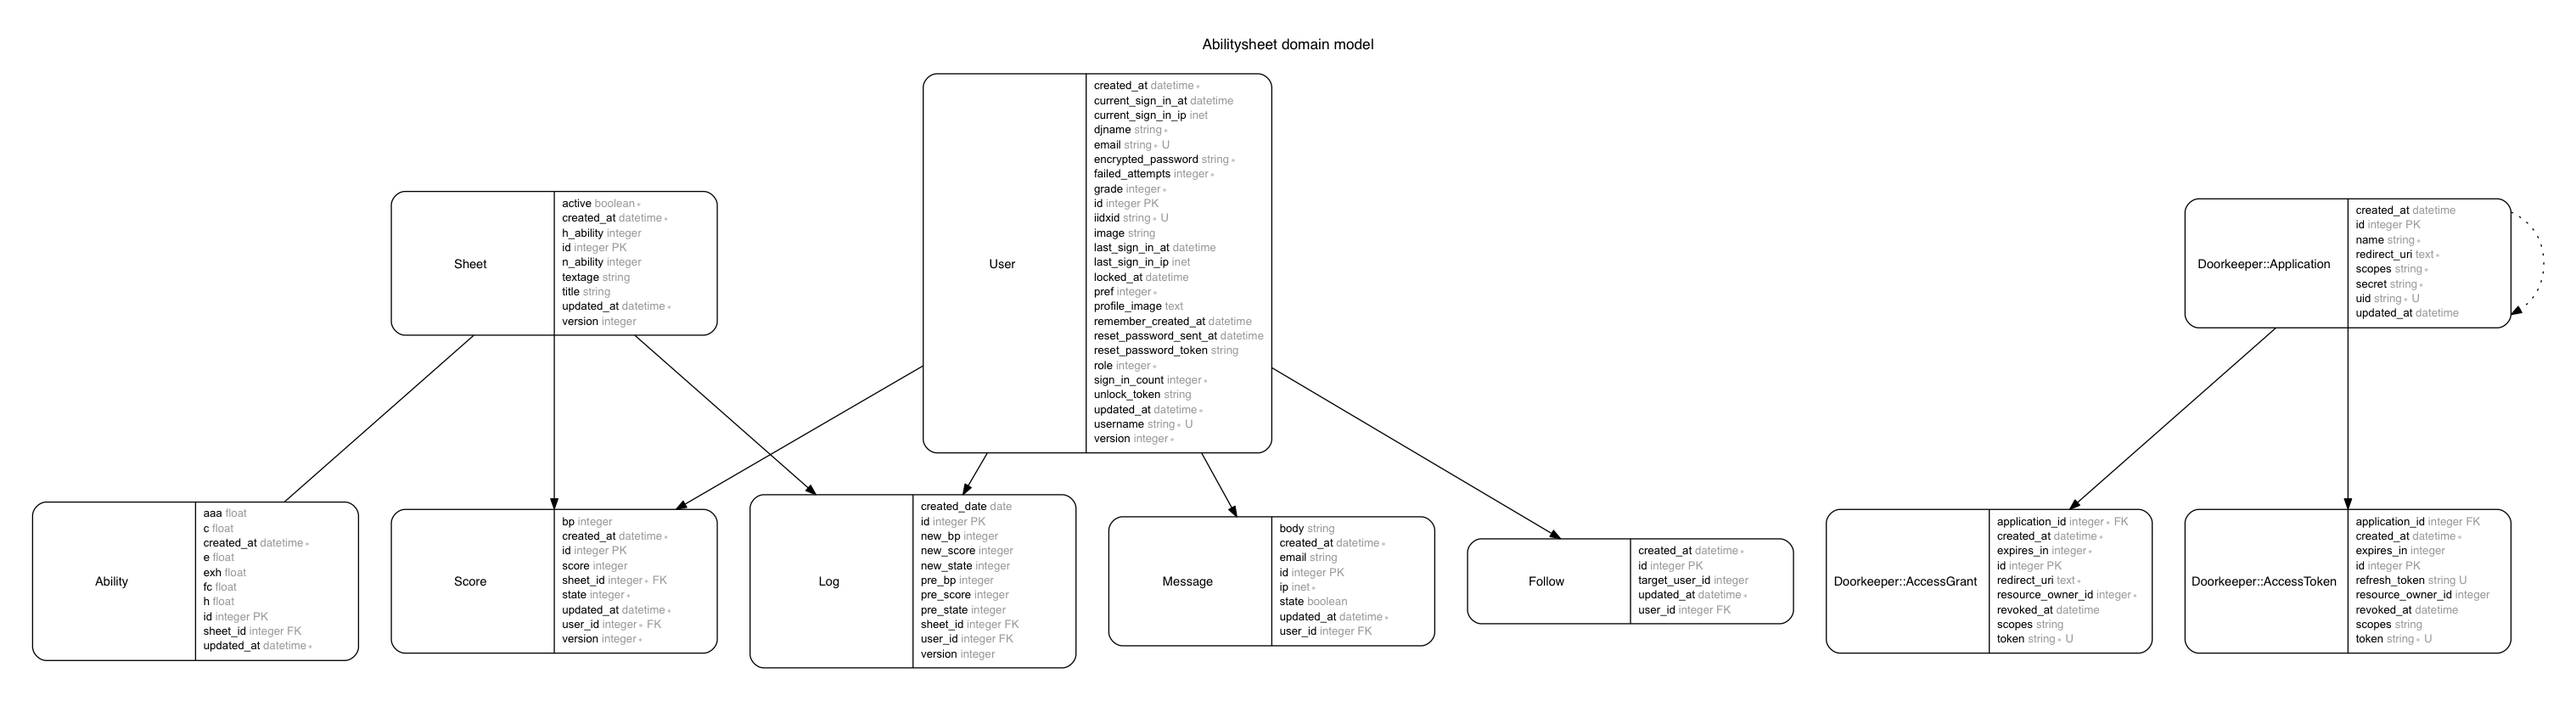
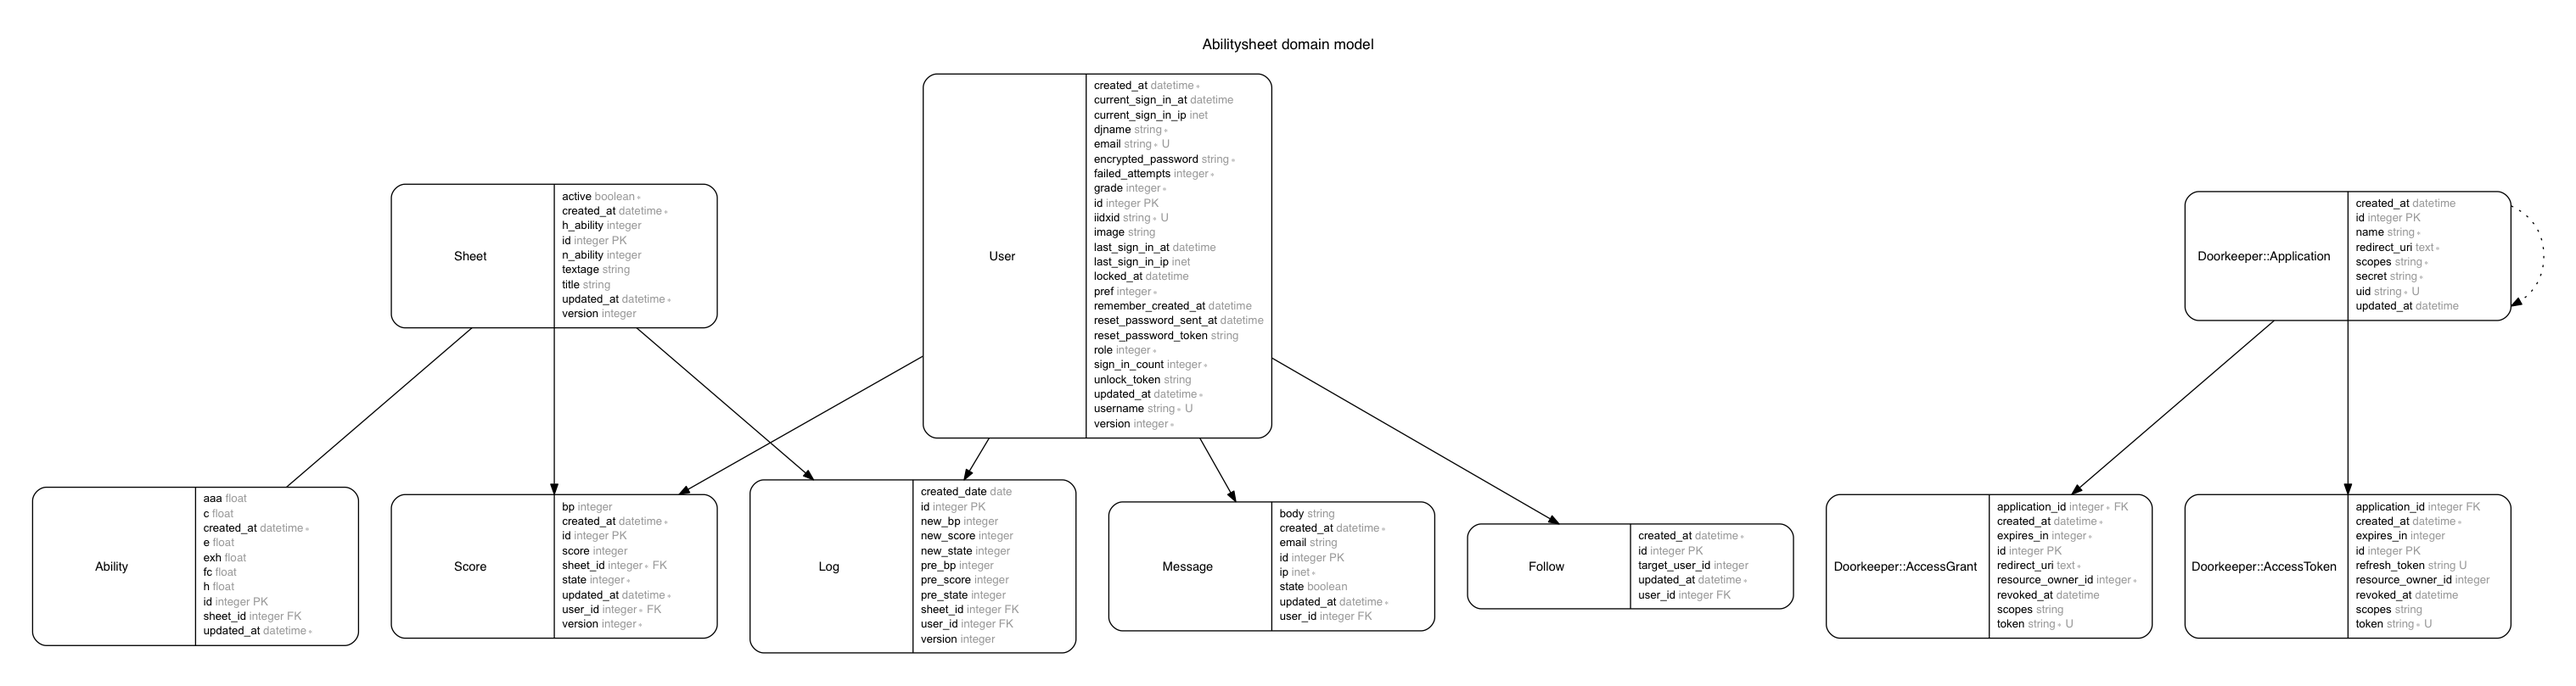
refs #712 db:migrate:reset

diff --git a/db/schema.rb b/db/schema.rb
@@ -1,4 +1,3 @@
-# encoding: UTF-8
 # This file is auto-generated from the current state of the database. Instead
 # of editing this file, please use the migrations feature of Active Record to
 # incrementally modify your database, and then regenerate this schema definition.
@@ -26,18 +25,16 @@ ActiveRecord::Schema.define(version: 20160814172615) do
     t.float    "aaa"
     t.datetime "created_at", null: false
     t.datetime "updated_at", null: false
+    t.index ["sheet_id"], name: "index_abilities_on_sheet_id", using: :btree
   end
-
-  add_index "abilities", ["sheet_id"], name: "index_abilities_on_sheet_id", using: :btree
 
   create_table "follows", force: :cascade do |t|
     t.integer  "user_id"
     t.integer  "target_user_id"
     t.datetime "created_at",     null: false
     t.datetime "updated_at",     null: false
+    t.index ["user_id", "target_user_id"], name: "index_follows_on_user_id_and_target_user_id", unique: true, using: :btree
   end
-
-  add_index "follows", ["user_id", "target_user_id"], name: "index_follows_on_user_id_and_target_user_id", unique: true, using: :btree
 
   create_table "logs", force: :cascade do |t|
     t.integer "user_id"
@@ -50,10 +47,9 @@ ActiveRecord::Schema.define(version: 20160814172615) do
     t.integer "new_bp"
     t.integer "version"
     t.date    "created_date"
+    t.index ["sheet_id"], name: "index_logs_on_sheet_id", using: :btree
+    t.index ["user_id"], name: "index_logs_on_user_id", using: :btree
   end
-
-  add_index "logs", ["sheet_id"], name: "index_logs_on_sheet_id", using: :btree
-  add_index "logs", ["user_id"], name: "index_logs_on_user_id", using: :btree
 
   create_table "messages", force: :cascade do |t|
     t.string   "body"
@@ -63,9 +59,8 @@ ActiveRecord::Schema.define(version: 20160814172615) do
     t.boolean  "state",      default: false
     t.datetime "created_at",                 null: false
     t.datetime "updated_at",                 null: false
+    t.index ["user_id"], name: "index_messages_on_user_id", using: :btree
   end
-
-  add_index "messages", ["user_id"], name: "index_messages_on_user_id", using: :btree
 
   create_table "oauth_access_grants", force: :cascade do |t|
     t.integer  "resource_owner_id", null: false
@@ -76,9 +71,8 @@ ActiveRecord::Schema.define(version: 20160814172615) do
     t.datetime "created_at",        null: false
     t.datetime "revoked_at"
     t.string   "scopes"
+    t.index ["token"], name: "index_oauth_access_grants_on_token", unique: true, using: :btree
   end
-
-  add_index "oauth_access_grants", ["token"], name: "index_oauth_access_grants_on_token", unique: true, using: :btree
 
   create_table "oauth_access_tokens", force: :cascade do |t|
     t.integer  "resource_owner_id"
@@ -89,11 +83,10 @@ ActiveRecord::Schema.define(version: 20160814172615) do
     t.datetime "revoked_at"
     t.datetime "created_at",        null: false
     t.string   "scopes"
+    t.index ["refresh_token"], name: "index_oauth_access_tokens_on_refresh_token", unique: true, using: :btree
+    t.index ["resource_owner_id"], name: "index_oauth_access_tokens_on_resource_owner_id", using: :btree
+    t.index ["token"], name: "index_oauth_access_tokens_on_token", unique: true, using: :btree
   end
-
-  add_index "oauth_access_tokens", ["refresh_token"], name: "index_oauth_access_tokens_on_refresh_token", unique: true, using: :btree
-  add_index "oauth_access_tokens", ["resource_owner_id"], name: "index_oauth_access_tokens_on_resource_owner_id", using: :btree
-  add_index "oauth_access_tokens", ["token"], name: "index_oauth_access_tokens_on_token", unique: true, using: :btree
 
   create_table "oauth_applications", force: :cascade do |t|
     t.string   "name",                      null: false
@@ -103,9 +96,8 @@ ActiveRecord::Schema.define(version: 20160814172615) do
     t.string   "scopes",       default: "", null: false
     t.datetime "created_at"
     t.datetime "updated_at"
+    t.index ["uid"], name: "index_oauth_applications_on_uid", unique: true, using: :btree
   end
-
-  add_index "oauth_applications", ["uid"], name: "index_oauth_applications_on_uid", unique: true, using: :btree
 
   create_table "scores", force: :cascade do |t|
     t.integer  "state",      default: 7, null: false
@@ -116,12 +108,11 @@ ActiveRecord::Schema.define(version: 20160814172615) do
     t.integer  "version",                null: false
     t.datetime "created_at",             null: false
     t.datetime "updated_at",             null: false
+    t.index ["sheet_id"], name: "index_scores_on_sheet_id", using: :btree
+    t.index ["updated_at"], name: "index_scores_on_updated_at", using: :btree
+    t.index ["user_id"], name: "index_scores_on_user_id", using: :btree
+    t.index ["version", "sheet_id", "user_id"], name: "index_scores_on_version_and_sheet_id_and_user_id", unique: true, using: :btree
   end
-
-  add_index "scores", ["sheet_id"], name: "index_scores_on_sheet_id", using: :btree
-  add_index "scores", ["updated_at"], name: "index_scores_on_updated_at", using: :btree
-  add_index "scores", ["user_id"], name: "index_scores_on_user_id", using: :btree
-  add_index "scores", ["version", "sheet_id", "user_id"], name: "index_scores_on_version_and_sheet_id_and_user_id", unique: true, using: :btree
 
   create_table "sheets", force: :cascade do |t|
     t.string   "title"
@@ -157,13 +148,11 @@ ActiveRecord::Schema.define(version: 20160814172615) do
     t.datetime "locked_at"
     t.datetime "created_at",                          null: false
     t.datetime "updated_at",                          null: false
-    t.text     "profile_image"
     t.string   "image"
+    t.index ["iidxid"], name: "index_users_on_iidxid", unique: true, using: :btree
+    t.index ["reset_password_token"], name: "index_users_on_reset_password_token", unique: true, using: :btree
+    t.index ["unlock_token"], name: "index_users_on_unlock_token", unique: true, using: :btree
+    t.index ["username"], name: "index_users_on_username", unique: true, using: :btree
   end
-
-  add_index "users", ["iidxid"], name: "index_users_on_iidxid", unique: true, using: :btree
-  add_index "users", ["reset_password_token"], name: "index_users_on_reset_password_token", unique: true, using: :btree
-  add_index "users", ["unlock_token"], name: "index_users_on_unlock_token", unique: true, using: :btree
-  add_index "users", ["username"], name: "index_users_on_username", unique: true, using: :btree
 
 end
